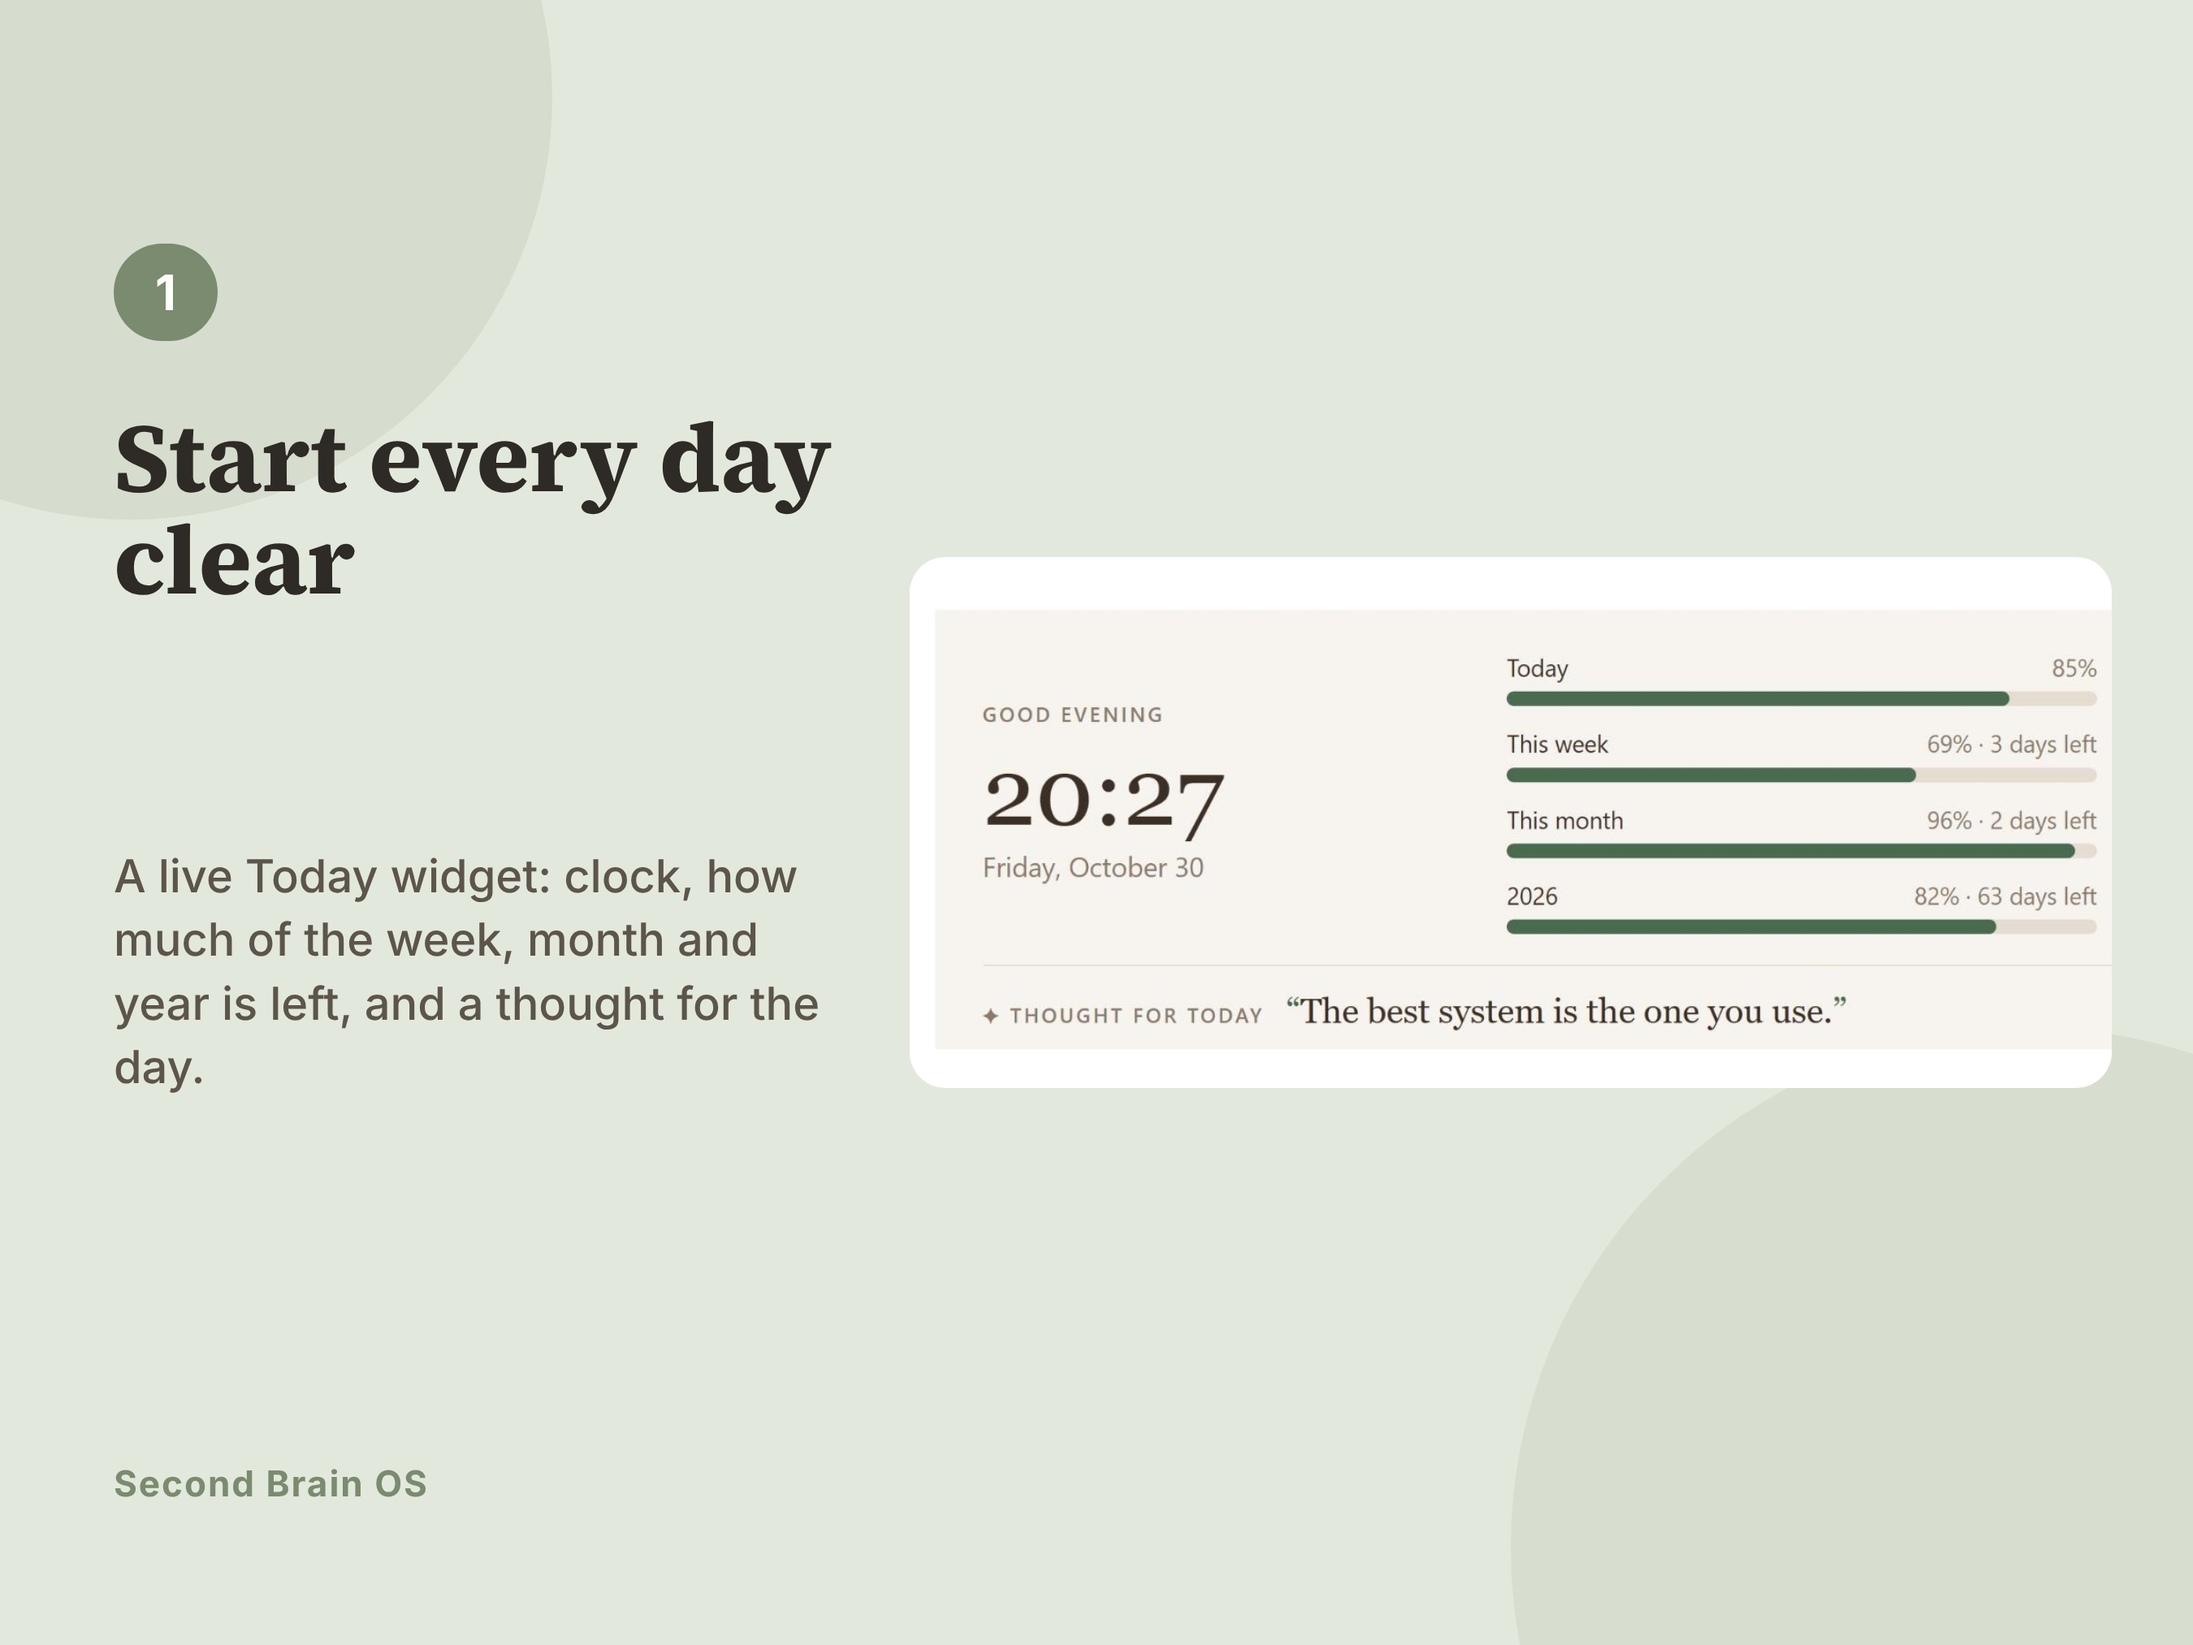
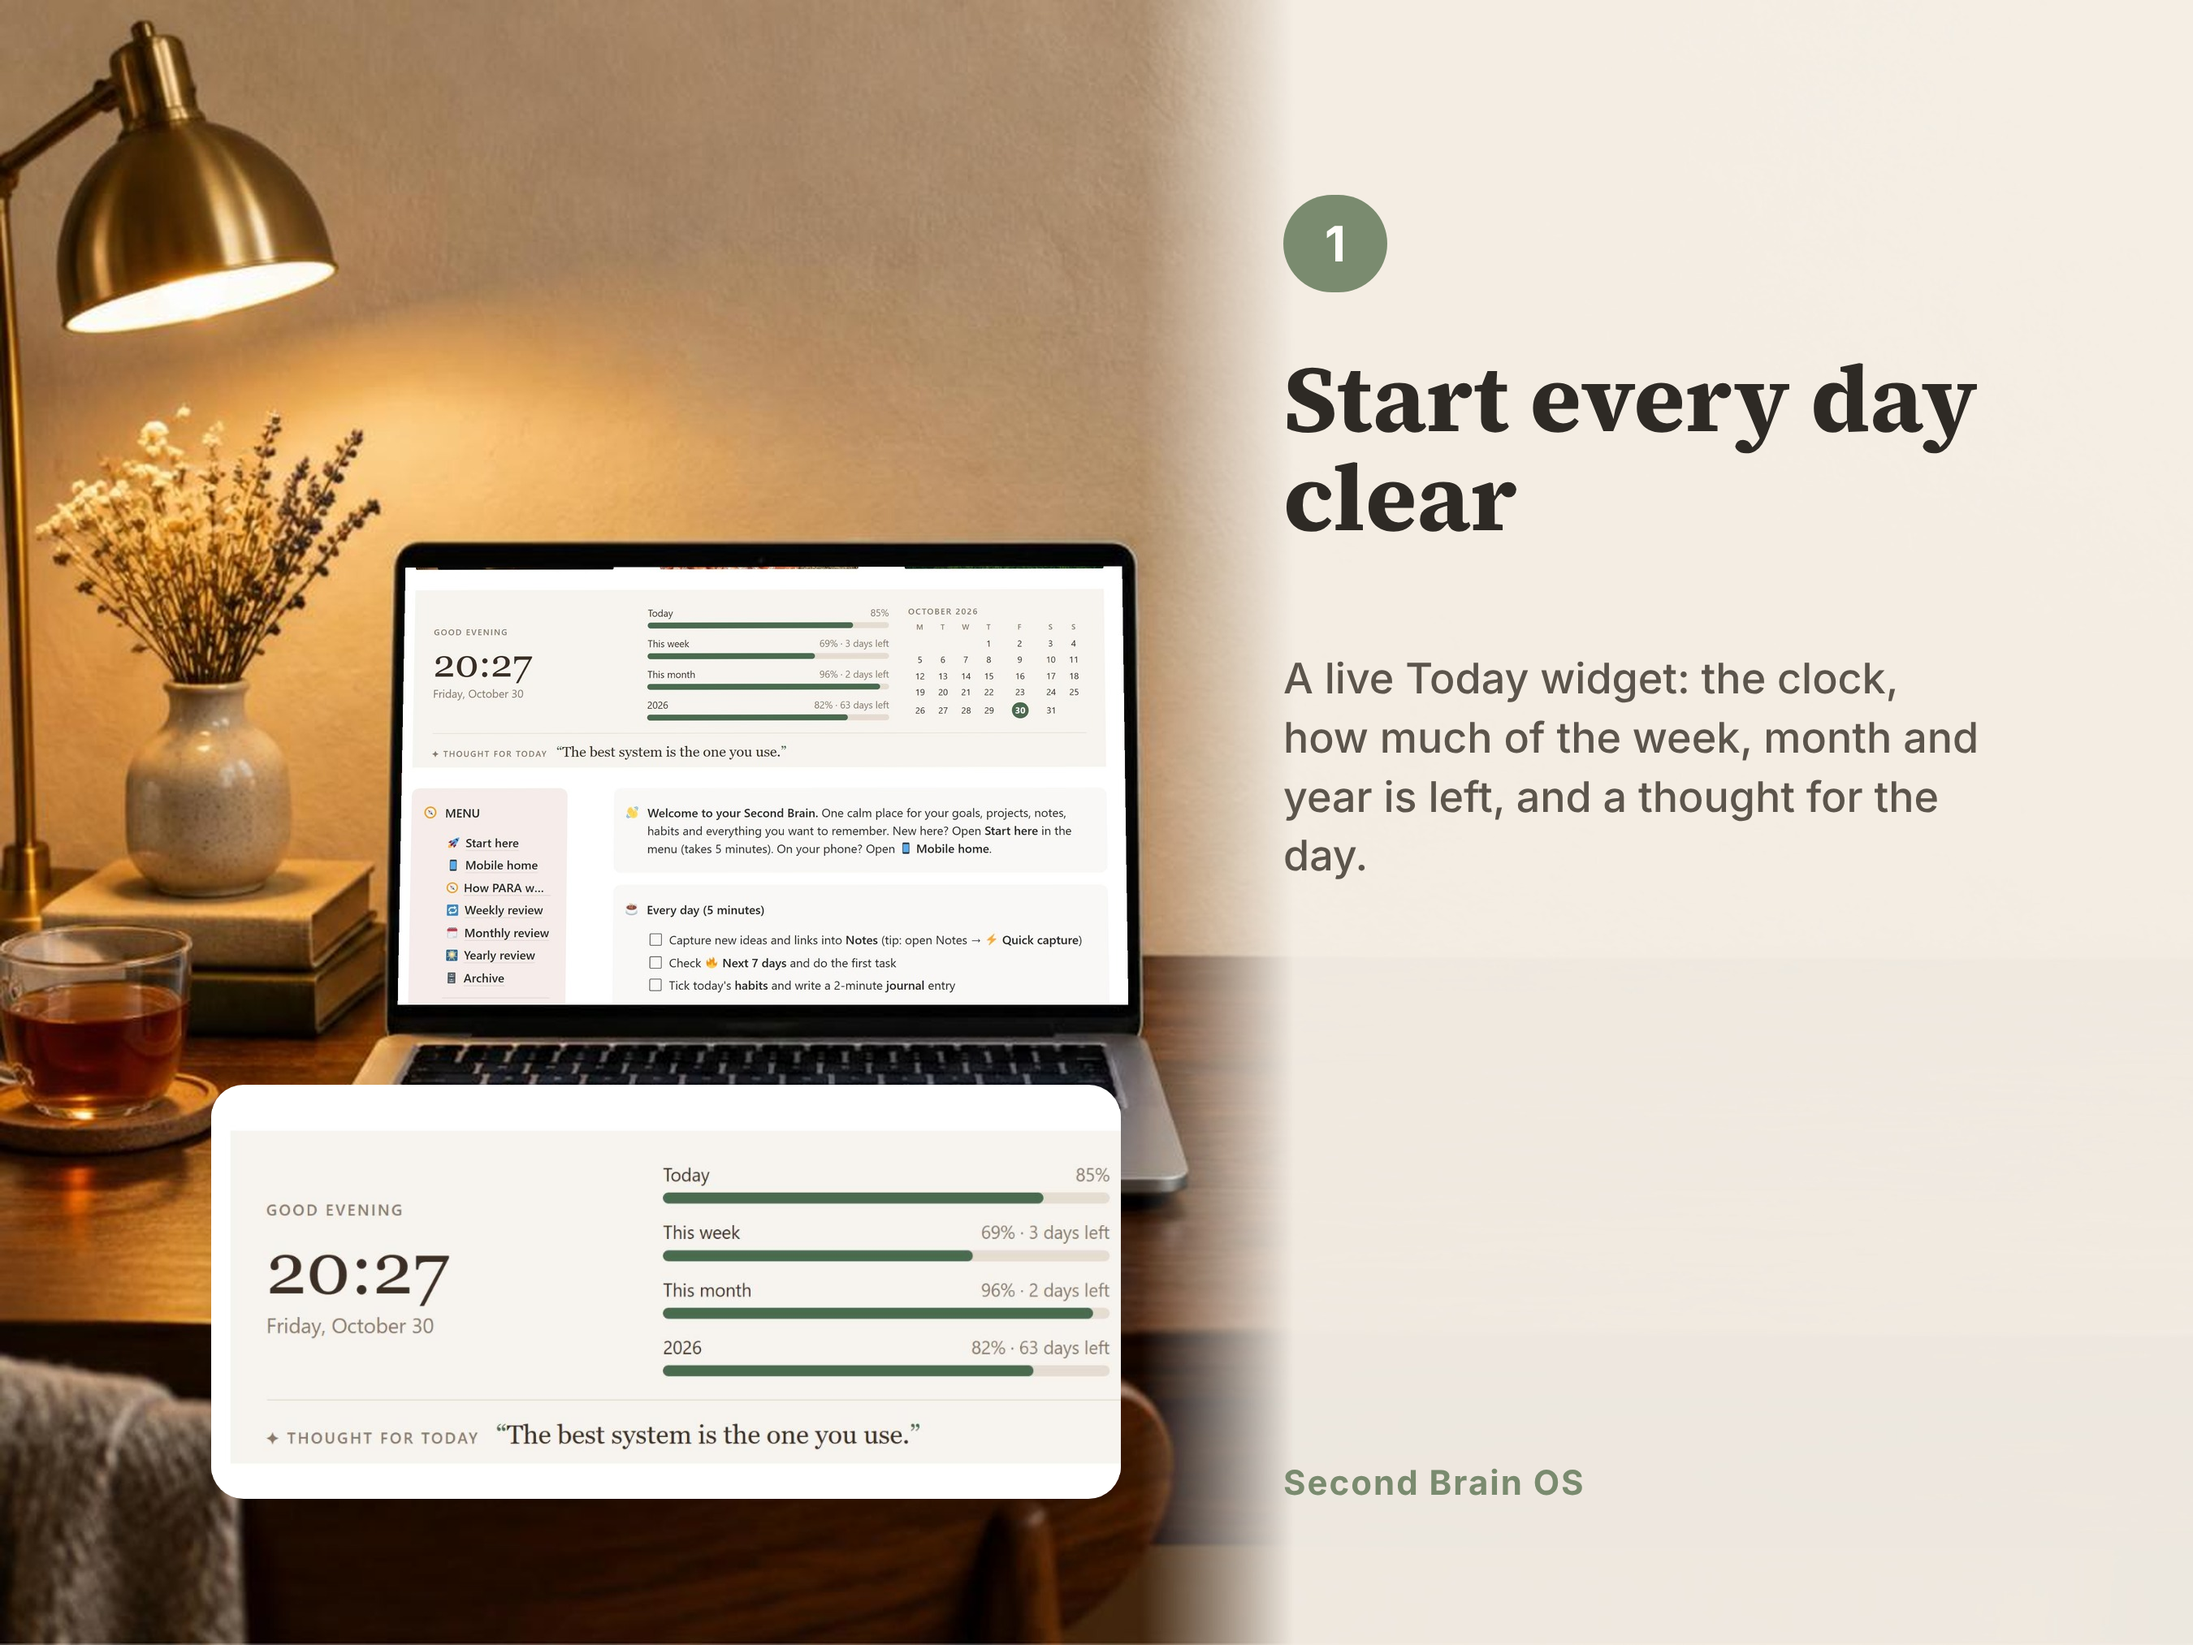
SB listing: lifestyle feature image style
Claude-Session: https://claude.ai/code/session_01SESvdWYowsCKTnCuHXDcbL

diff --git a/generator/v3/sb_listing_v3.py b/generator/v3/sb_listing_v3.py
@@ -10,6 +10,7 @@ B.CROPS.update({
     'c-sb-widget': ('sb-home', (166, 968, 1382, 1456)),
     'c-sb-goals': ('sb-goals', (180, 330, 1330, 850)),
     'c-sb-journal': ('sb-journal', (180, 330, 820, 1000)),
+    'sb-scr-widget': ('sb-home', (166, 940, 1945, 2050)),
 })
 B.COMPOSITE.update({
     'c-sb-projects': ('sb-projects', [(396, 940)], [(192, 700), (1253, 1751)]),
@@ -26,10 +27,79 @@ L.P['sb'] = dict(name='Second Brain OS', kicker='NOTION LIFE PLANNER · PARA MET
     inside=['Home dashboard + Today widget', 'Goals with progress bars', 'Projects board + Tasks', 'Next 7 days + calendar',
             'Notes inbox + Quick capture', 'Areas + Resources (PARA)', 'Habit tracker', 'Daily journal + mood board',
             'Reading list + weekly, monthly, yearly reviews', 'Bonus PDF: Notion for beginners'])
+import numpy as np
+from PIL import Image, ImageDraw
+W, H = L.W, L.H
+
+
+def life_bg(scene, screen, out, text_side='right', dark=False):
+    """scene scaled to page height, real screenshot warped into the blank screen, soft panel on the text side"""
+    sc = Image.open(os.path.join(L.HERE, scene)).convert('RGB'); w0, h0 = sc.size
+    k = (H * 2) / h0; Wb = int(w0 * k)
+    ox = 0 if text_side == 'right' else Wb - W * 2
+    base = (40, 30, 22) if dark else (246, 241, 233)
+    bg = Image.new('RGBA', (W * 2, H * 2), base + (255,))
+    scr = sc.resize((Wb, H * 2), Image.LANCZOS).convert('RGBA')
+    bg.paste(scr.crop((max(0, ox), 0, max(0, ox) + W * 2, H * 2)), (max(0, -ox), 0))
+    S = 2
+    q = L.screens_of(scene, 1)[0]
+    qq = [((x * k - ox) * S, y * k * S) for x, y in q]
+    cx = sum(a for a, _ in qq) / 4; cy = sum(b for _, b in qq) / 4
+    qq = [(cx + (x - cx) * 1.03, cy + (y - cy) * 1.025) for x, y in qq]
+    c = Image.open(B.src(screen)).convert('RGB')
+    sw = ((qq[1][0] - qq[0][0]) ** 2 + (qq[1][1] - qq[0][1]) ** 2) ** .5
+    sh = ((qq[3][0] - qq[0][0]) ** 2 + (qq[3][1] - qq[0][1]) ** 2) ** .5
+    ar = sw / sh; cw, ch = c.size
+    c = c.crop((0, 0, int(ch * ar), ch)) if cw / ch > ar else c.crop((0, 0, cw, int(cw / ar)))
+    cw, ch = c.size
+    warped = c.convert('RGBA').transform((W * 2 * S, H * 2 * S), Image.PERSPECTIVE,
+                                         B._coeffs(qq, [(0, 0), (cw, 0), (cw, ch), (0, ch)]), Image.BICUBIC)
+    m = Image.new('L', (W * 2 * S, H * 2 * S), 0); ImageDraw.Draw(m).polygon(qq, fill=255)
+    layer = Image.new('RGBA', (W * 2 * S, H * 2 * S), (0, 0, 0, 0)); layer.paste(warped, (0, 0), m)
+    bg.alpha_composite(layer.resize((W * 2, H * 2), Image.LANCZOS))
+    arr = np.zeros((H * 2, W * 2, 4), np.uint8); arr[..., :3] = base
+    for x in range(W * 2):
+        t = x / (W * 2)
+        if text_side == 'right':
+            a = 0.0 if t < 0.52 else min(0.96, 0.96 * (t - 0.52) / 0.07)
+        else:
+            a = 0.96 if t < 0.46 else max(0.0, 0.96 * (1 - (t - 0.46) / 0.06))
+        arr[:, x, 3] = int(255 * a * (0.8 if dark else 1))
+    bg.alpha_composite(Image.fromarray(arr))
+    bg.convert('RGB').save(out, quality=92)
+
+
+LIFE = [  # (n, title, desc, scene, screen crop, card crop, text side, dark)
+    (1, 'Start every day clear', 'A live Today widget: the clock, how much of the week, month and year is left, and a thought for the day.',
+     's-sb2.png', 'sb-scr-widget', 'c-sb-widget', 'right', False),
+]
+
+
+def life_page(n, title, desc, scene, screen, card, side, dark, base_url):
+    p = L.P['sb']; fg = L.PAP if dark else L.INK; sub = '#F1E7DC' if dark else L.MUT
+    lab = f'sb-{n + 1}-feature'; bgf = lab + '.jpg'
+    life_bg(scene, screen, os.path.join(L.OUT, 'sb', bgf), side, dark)
+    X = 790 if side == 'right' else 110
+    inner = (f'<p style="position:absolute;left:{X}px;top:120px;width:64px;margin:0;padding:12px 0;text-align:center;border-radius:999px;background:{p["accent"]};color:{L.PAP};font-size:30px;font-weight:700">{n}</p>'
+             + L.T(X, 215, 460, title, 58, f'line-height:1.05;color:{fg};{L.SER}')
+             + L.T(X, 400, 430, desc, 26, f'line-height:1.4;color:{sub}')
+             + L.T(X, 900, 0, 'Second Brain OS', 21, f'font-weight:700;letter-spacing:1px;color:{p["accent"]}'))
+    CW = 560
+    url, ih = B.fit(card, CW, 300, f'l{n}'); url = url.replace(B.RAW + 'crops/', base_url + 'crops/')
+    cx = 130 if side == 'right' else 1350 - 130 - CW
+    inner += (f'<div style="position:absolute;left:{cx}px;top:{H - ih - 120}px;width:{CW}px;height:{ih + 30}px;background:#FFFFFF;border-radius:20px;overflow:hidden;box-shadow:0 14px 40px rgba(0,0,0,.18)">'
+              f'<img src="{url}" style="position:absolute;left:0;top:15px;width:{CW}px;height:{ih}px"></div>')
+    return L.page(lab, inner, f'{base_url}sb/{bgf}')
+
+
 if __name__ == '__main__':
     want = sys.argv[1:]
     os.makedirs(os.path.join(L.OUT, 'sb'), exist_ok=True); os.makedirs(os.path.join(L.OUT, 'final', 'sb'), exist_ok=True)
-    for pg in L.build('sb', 'file://' + os.path.join(L.ROOT, 'canva', 'v3') + '/LOCALMARK/'):
+    base = 'file://' + os.path.join(L.ROOT, 'canva', 'v3') + '/LOCALMARK/'
+    pages = L.build('sb', base)
+    life = [life_page(*row, base) for row in LIFE]
+    pages = [pages[0]] + life + pages[len(life) + 1:]
+    for pg in pages:
         pg2 = pg.replace('/LOCALMARK/crops/', '/crops/').replace('/LOCALMARK/', '/etsy/')
         lab = re.search(r'data-label="([^"]+)"', pg2).group(1)
         if want and not any(w in lab for w in want):
